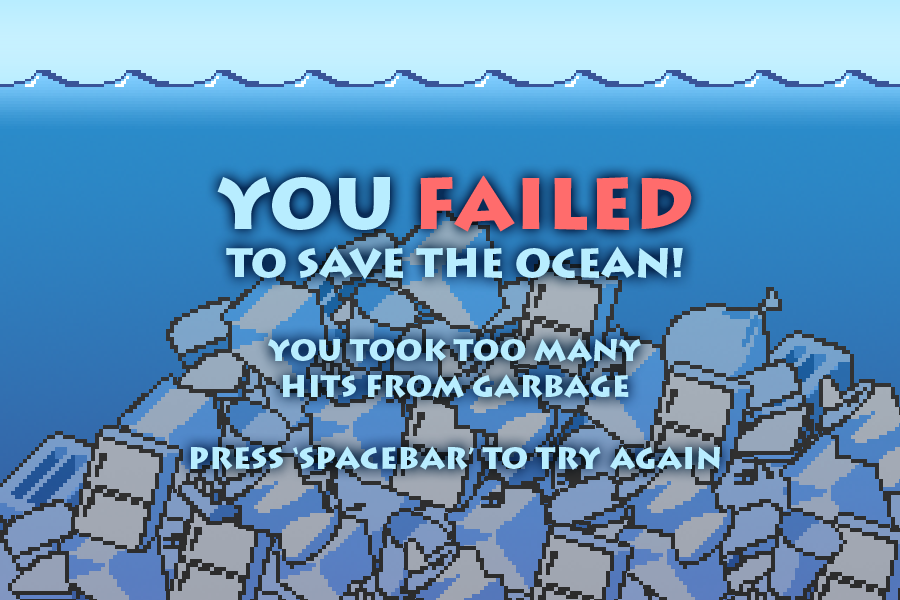
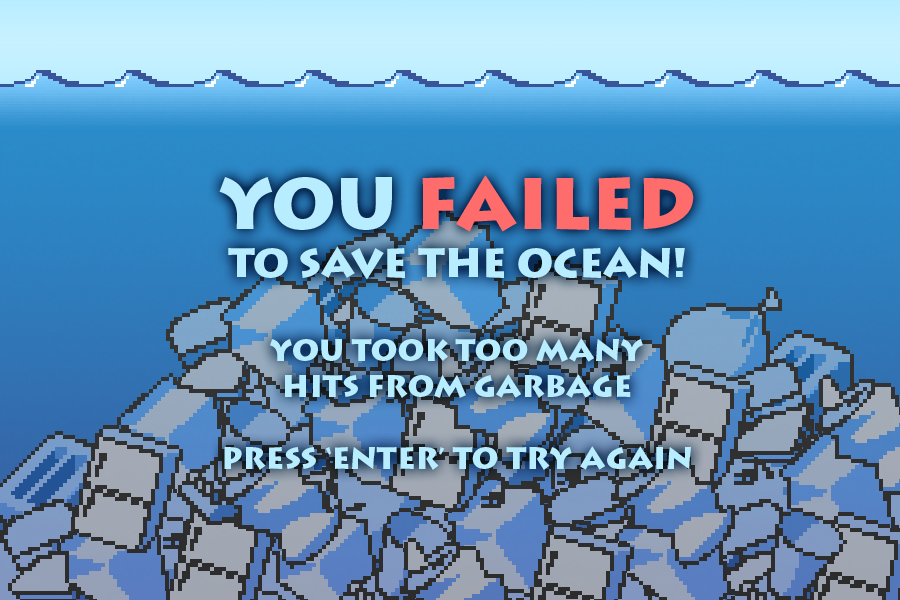
Update Win/Fail screens to use the enter key.

diff --git a/src/scripts/app/states/Fail.js b/src/scripts/app/states/Fail.js
@@ -11,7 +11,7 @@ export default class Fail extends Phaser.State {
   }
 
   update(){
-    if (this.game.input.keyboard.isDown(Phaser.Keyboard.SPACEBAR)) {
+    if (this.game.input.keyboard.isDown(Phaser.Keyboard.ENTER)) {
       this.state.start('Game'); 
     }
   }

diff --git a/src/scripts/app/states/Win.js b/src/scripts/app/states/Win.js
@@ -11,7 +11,7 @@ export default class Win extends Phaser.State {
   }
 
   update(){
-    if (this.game.input.keyboard.isDown(Phaser.Keyboard.SPACEBAR)) {
+    if (this.game.input.keyboard.isDown(Phaser.Keyboard.ENTER)) {
       this.state.start('Game'); 
     }
   }
